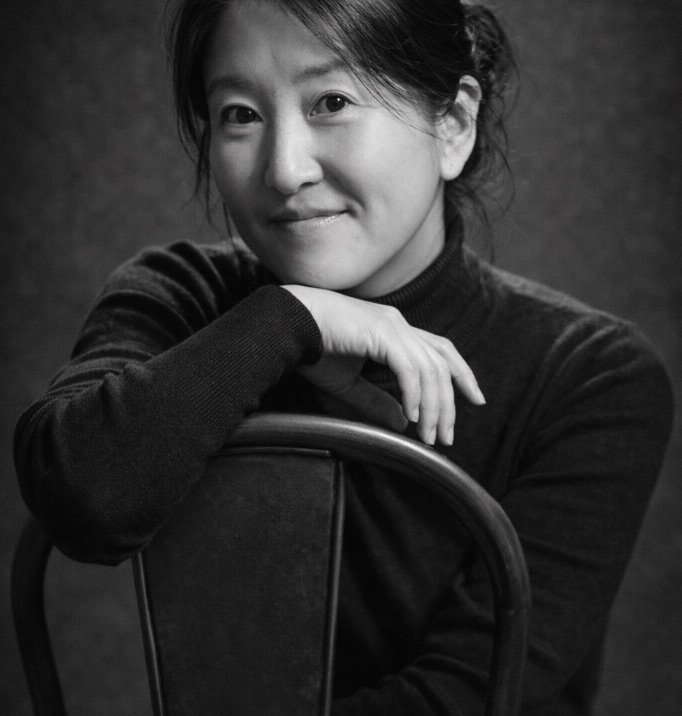
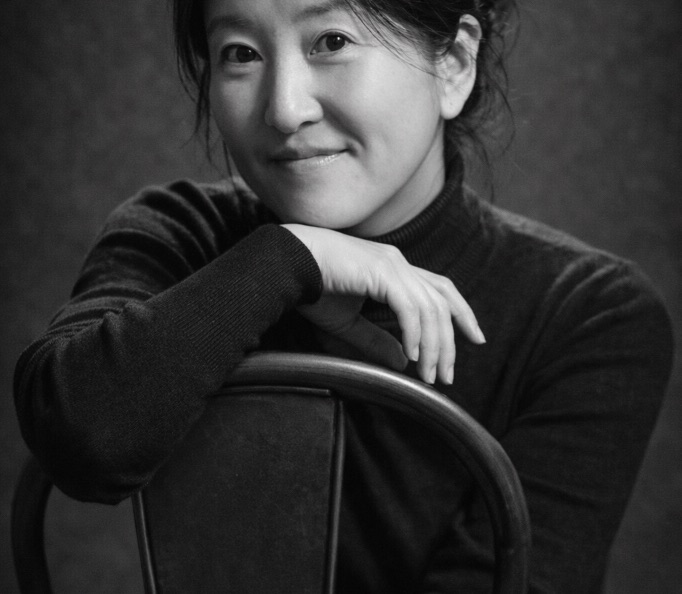
대표 강사 사진 가슴 라인 크롭(머리 여백 확보) + 자격 순서: 평생교육사·사회복지사 맨 뒤로

diff --git a/src/App.jsx b/src/App.jsx
@@ -47,7 +47,7 @@ const T = {
     univ: '전북대학교 교육대학원',
     univ_sub: '평생교육 및 HRD 전공 (석사)',
     thesis: '「디지털 리터러시 교육에서 중장년 여성의 학습동기와 학업적 열의의 관계」',
-    certs: ['AI특화인재양성교육 - AI서비스개발 이수', 'AICE(AI 활용능력) BASIC', 'NCS 강사', '평생교육사 2급', '사회복지사 1급', '직업능력훈련교사(영상분야)', '디지털 튜터', 'Google Workspace for Education Fundamentals'],
+    certs: ['AI특화인재양성교육 - AI서비스개발 이수', 'AICE(AI 활용능력) BASIC', 'NCS 강사', '직업능력훈련교사(영상분야)', '디지털 튜터', 'Google Workspace for Education Fundamentals', '평생교육사 2급', '사회복지사 1급'],
     book: '『AI야, 안녕!』 — 초등학교 저학년을 위한 AI수업 교재 (공저 · 기획 · 집필 · 편집)',
     role_now: '(주)리프레임 Re:Frame 대표 · 한국평생교육HRD진흥협회 AI교육부장',
     tags: ['생성형 AI 업무 활용', '바이브코딩', 'AI 콘텐츠 제작', 'AI 리터러시 · 저작권'],
@@ -173,7 +173,7 @@ const T = {
     univ: 'Jeonbuk National University Graduate School of Education',
     univ_sub: 'Lifelong Education & HRD (M.Ed.)',
     thesis: '"The Relationship between Learning Motivation and Academic Engagement of Middle-Aged Women in Digital Literacy Education"',
-    certs: ['AI Specialist Program - AI Service Development', 'AICE Basic (KT)', 'NCS Instructor', 'Lifelong Educator Lv.2', 'Social Worker Lv.1', 'Vocational Training Teacher (Video)', 'Digital Tutor', 'Google Workspace for Education Fundamentals'],
+    certs: ['AI Specialist Program - AI Service Development', 'AICE Basic (KT)', 'NCS Instructor', 'Vocational Training Teacher (Video)', 'Digital Tutor', 'Google Workspace for Education Fundamentals', 'Lifelong Educator Lv.2', 'Social Worker Lv.1'],
     book: '"Hello, AI!" — an AI textbook for lower elementary (co-author · planning · writing · editing)',
     role_now: 'CEO, Re:Frame Inc. · Head of AI Education, Korea Lifelong Education & HRD Association',
     tags: ['Gen AI at Work', 'Vibe Coding', 'AI Content Creation', 'AI Literacy · Copyright'],
